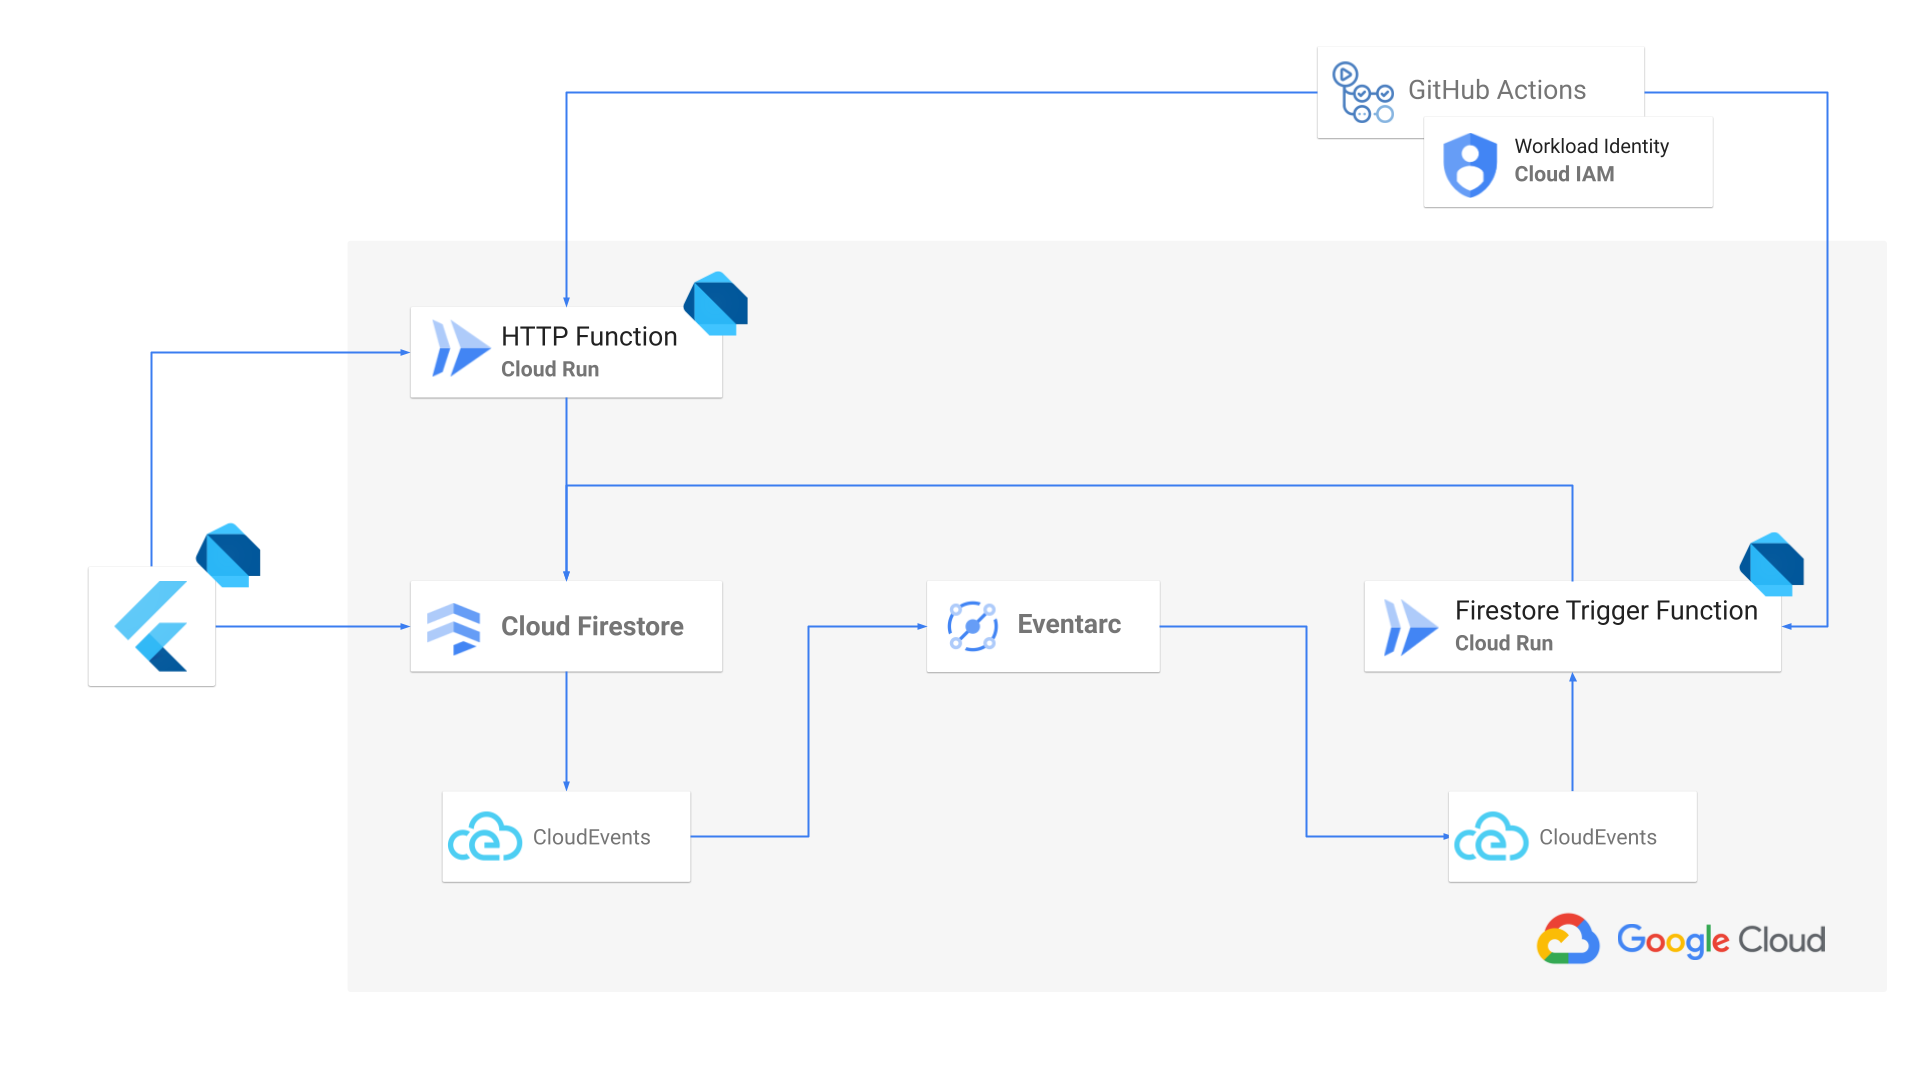
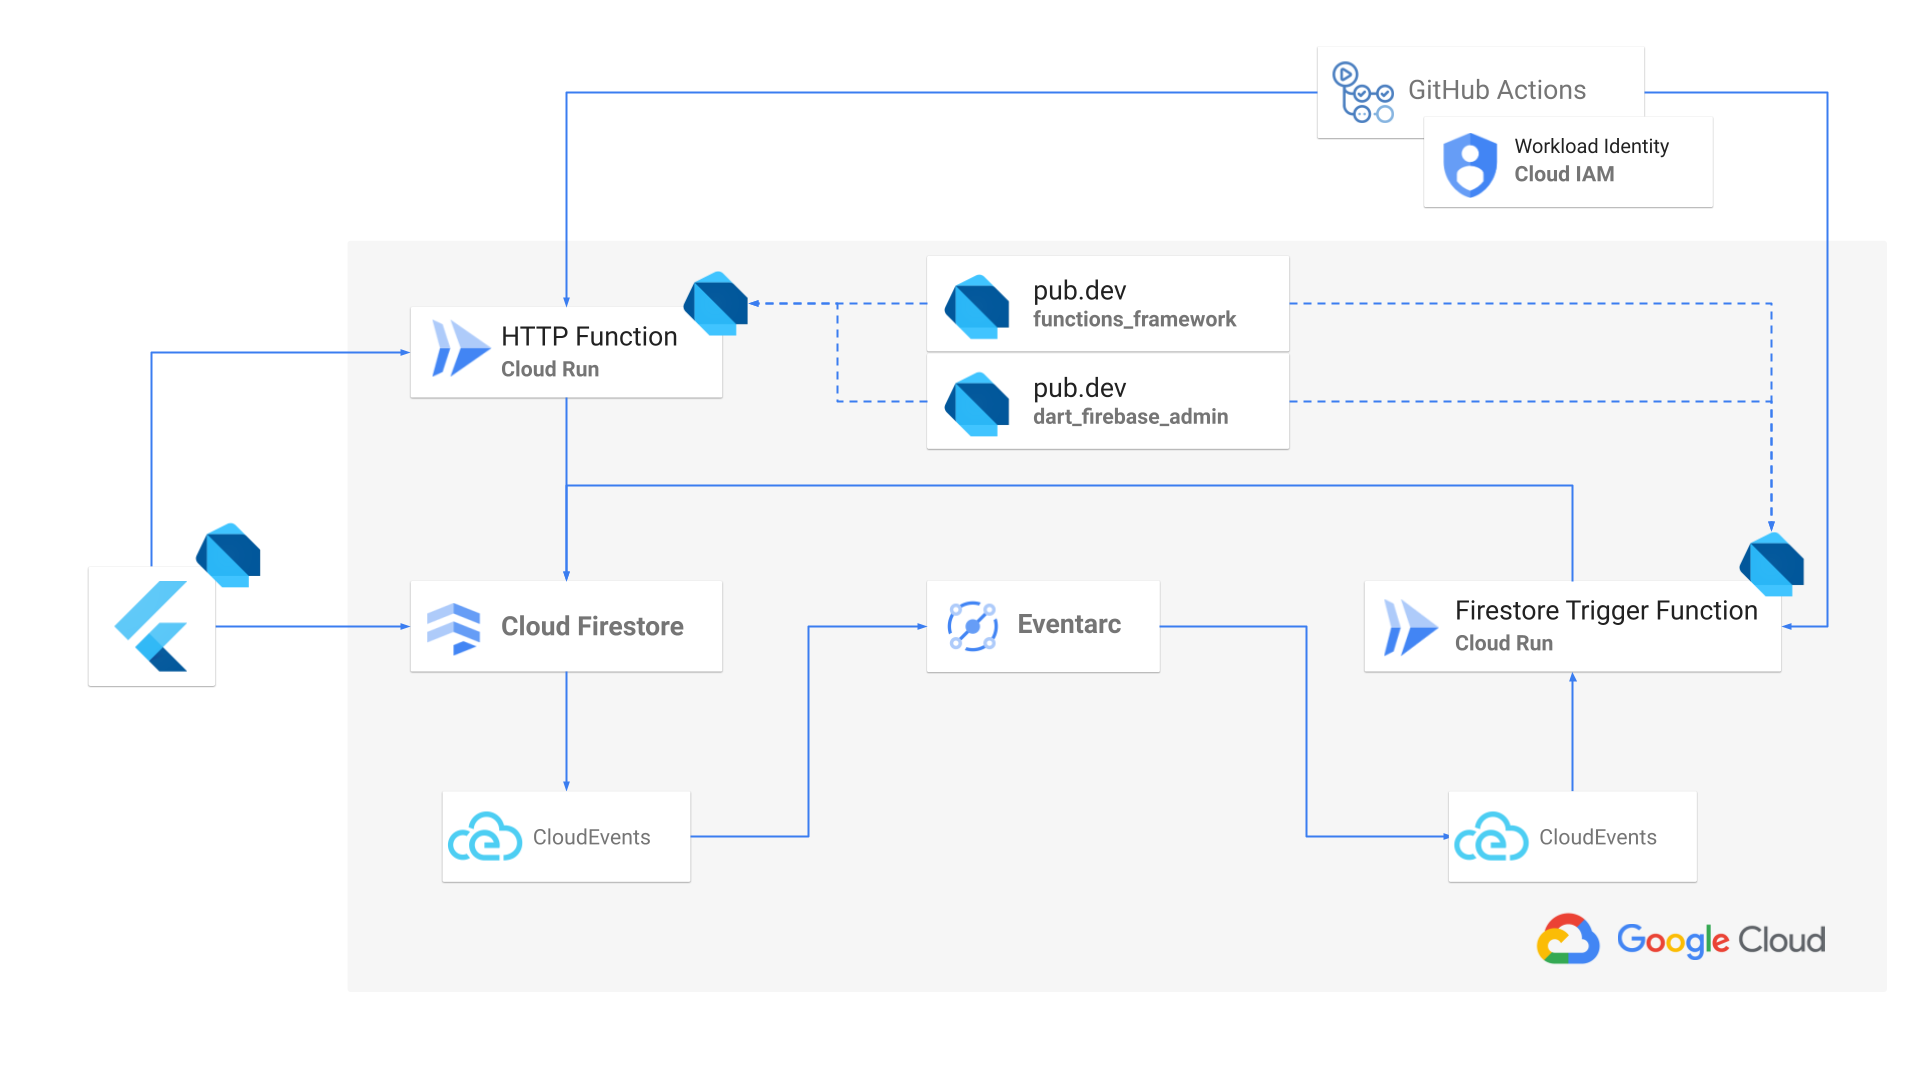
docs:  update slide and asset images

Changed region(s): [[0.4688, 0.2444, 0.6562, 0.4278]]

diff --git a/slide/slide.md b/slide/slide.md
@@ -71,7 +71,7 @@ Kosuke (@kosukesaigusa)
 
 # ![w:72 h:72](assets/flutter_ninjas.png) Demo
 
-Demo to show sample app.
+Let's see sample app!
 
 ---
 
@@ -81,10 +81,17 @@ Demo to show sample app.
 
 ---
 
-# Table of contents
+# Table of Contents
 
 1. ...
 2. ...
+3. ...
+
+---
+
+# Cloud Run
+
+![bg](assets/architecture_cloud_run.png)
 
 ---
 
@@ -132,10 +139,16 @@ Hello, Flutter Ninjas!
 
 # functions_framework package
 
-- Developed in `GoogleCloudPlatform` organization
+![bg](assets/architecture_functions_framework.png)
+
+---
+
+# functions_framework package
+
+- Developed by `GoogleCloudPlatform` organization
 - Provide a framework to write Dart functions and deploy it to Cloud Run, GAE, ...etc
 
-![bg r](assets/functions_framework_card.png)
+![bg](assets/functions_framework_card.png)
 
 ---
 
@@ -248,7 +261,7 @@ Hello, Flutter Ninjas!
 
 # ![w:72 h:72](assets/flutter_ninjas.png) Demo
 
-Demo to run hello function on local.
+Try to run hello function on local machine!
 
 ---
 
@@ -278,9 +291,11 @@ Hello, Flutter Ninjas!
 
 <!-- _class: lead -->
 
-Paste GCP Console Screenshot here.
+![bg](assets/gcp_cloud_run.png)
 
-![bg](assets/explore_full_stack_dart.png)
+---
+
+![bg](assets/architecture_http_function_checked.png)
 
 ---
 
@@ -288,15 +303,26 @@ Paste GCP Console Screenshot here.
 
 # ![w:72 h:72](assets/flutter_ninjas.png) Demo
 
-Demo to deploy hello function to Cloud Run.
+Deploy hello function to Cloud Run!
 
 ---
 
 # dart_firebase_admin package
 
-<style scoped>section { font-size: 32px; }</style>
+![bg](assets/architecture_dart_firebase_admin.png)
 
-Firebase Admin SDK for Dart developed by `invertase` organization:
+---
+
+# dart_firebase_admin package
+
+- Developed by `invertase` organization
+- Remi is the main contributor
+
+![bg](assets/dart_firebase_admin_card.png)
+
+---
+
+# dart_firebase_admin package
 
 ```dart
 final adminApp = FirebaseAdminApp.initializeApp(
@@ -317,11 +343,7 @@ final messaging = Messaging(adminApp);
 
 # dart_firebase_admin package
 
-```dart
-final firestore = Firestore(adminApp);
-final auth = Auth(adminApp);
-final messaging = Messaging(adminApp);
-```
+![bg](assets/architecture_dart_firebase_admin_checked.png)
 
 ---
 
@@ -329,15 +351,13 @@ final messaging = Messaging(adminApp);
 
 # ![w:72 h:72](assets/flutter_ninjas.png) Demo
 
-Demo to send FCM to mobile app from local admin SDK.
+Send FCM to mobile app from local admin SDK!
 
 ---
 
 # Transfer Cloud Firestore event to Cloud Run
 
-![bg](assets/architecture.png)
-
-Paste Eventarc and CloudEvents focused figure here.
+![bg](assets/architecture_eventarc.png)
 
 ---
 
@@ -349,7 +369,13 @@ Paste Eventarc and CloudEvents focused figure here.
 
 ---
 
-# Write CloudEvent triggered Function in Dart
+# Write CloudEvents triggered Function in Dart
+
+![bg](assets/architecture_firestore_triggered_function.png)
+
+---
+
+# Write CloudEvents triggered Function in Dart
 
 Define function with `@CloudFunction()`, and give two parameters:
 
@@ -366,7 +392,7 @@ void oncreateevent(CloudEvent event, RequestContext context)
 
 ---
 
-# Deploy CloudEvent triggered Function to Cloud Run
+# Deploy CloudEvents triggered Function to Cloud Run
 
 <style scoped>h1 { font-size: 48px;} section { font-size: 30px; }</style>
 
@@ -415,7 +441,11 @@ gcloud eventarc triggers create oncreateevent \
 
 <!-- _class: lead -->
 
-GCP Eventarc dashboard screenshots here
+![bg](assets/gcp_eventarc.png)
+
+---
+
+![bg](assets/architecture_firestore_triggered_function_checked.png)
 
 ---
 
@@ -423,7 +453,13 @@ GCP Eventarc dashboard screenshots here
 
 # ![w:72 h:72](assets/flutter_ninjas.png) Demo
 
-Demo to create Eventarc trigger.
+Try to create Eventarc trigger!
+
+---
+
+# How to handle Raw CloudEvents data?
+
+TODO: Show figure to ask how to handle raw CloudEvents data
 
 ---
 
@@ -465,6 +501,8 @@ Demo to create Eventarc trigger.
 # dart_firebase_functions package
 
 Trying to develop `dart_firebase_functions` package.
+
+![bg](assets/dart_firebase_functions_card.png)
 
 ---
 
